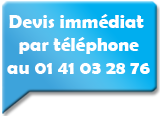
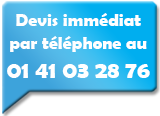
change picto telephone

diff --git a/wp-content/themes/strappress/template-home.php b/wp-content/themes/strappress/template-home.php
@@ -45,7 +45,7 @@ $dir = get_template_directory_uri(); ?>
                <div class="row-fluid">
                 <center><a href="charte-qualite"><img src="wp-content/themes/strappress/images/garantie.png"/></a>
                     <a href="charte-qualite"><img src="wp-content/themes/strappress/images/rep_express.png"/></a>
-                    <a href="charte-qualite"><img src="wp-content/themes/strappress/images/telephone.png"/></a>
+                    <a href="tel:0141032876"><img src="wp-content/themes/strappress/images/telephone.png"/></a>
                     </center>
                 </div>
             </div>
